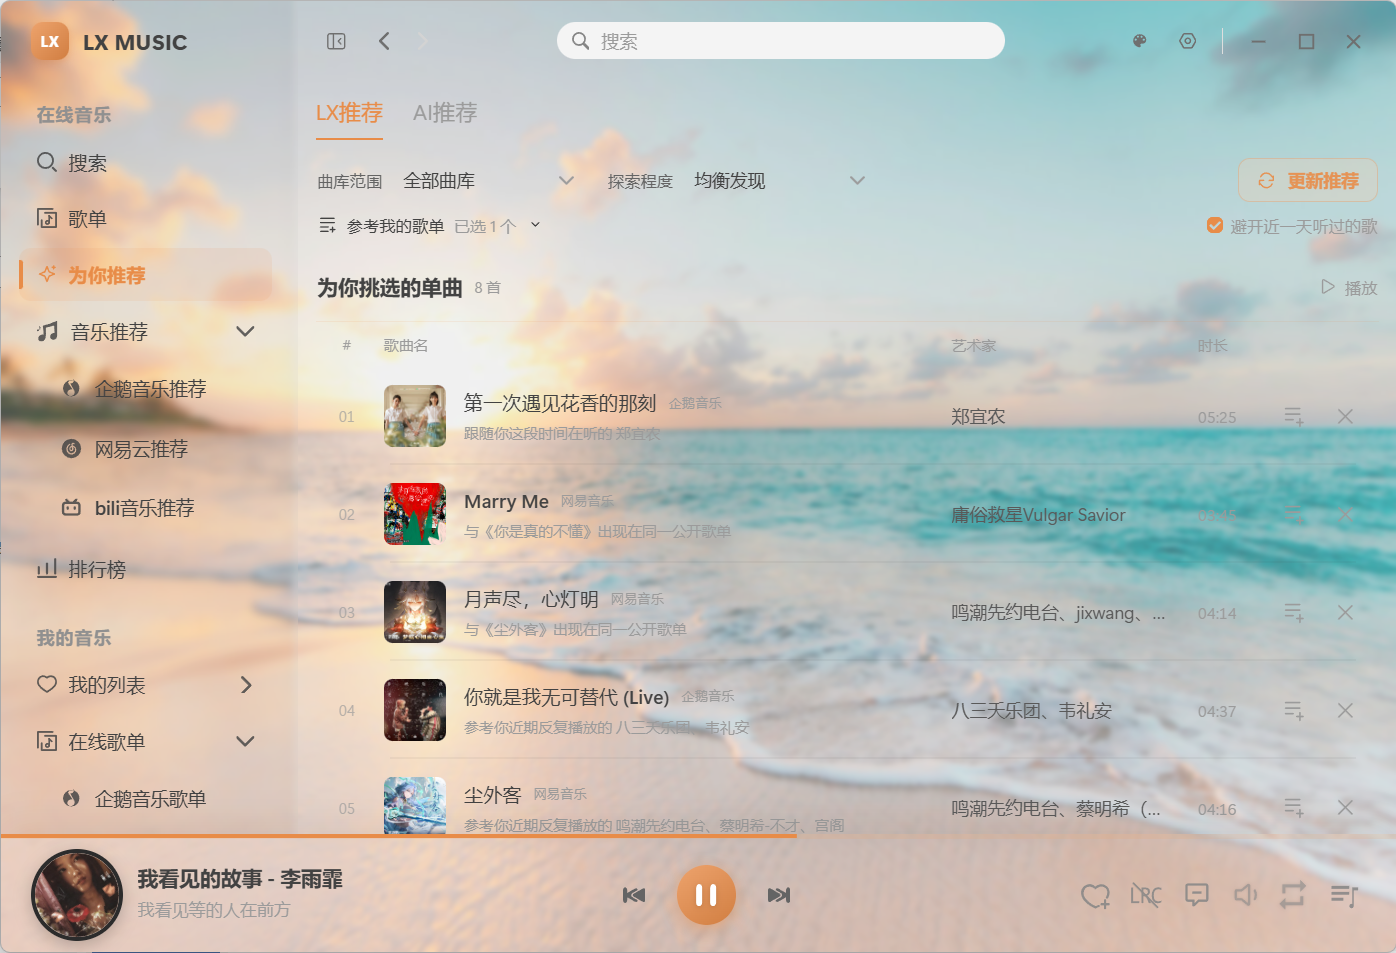
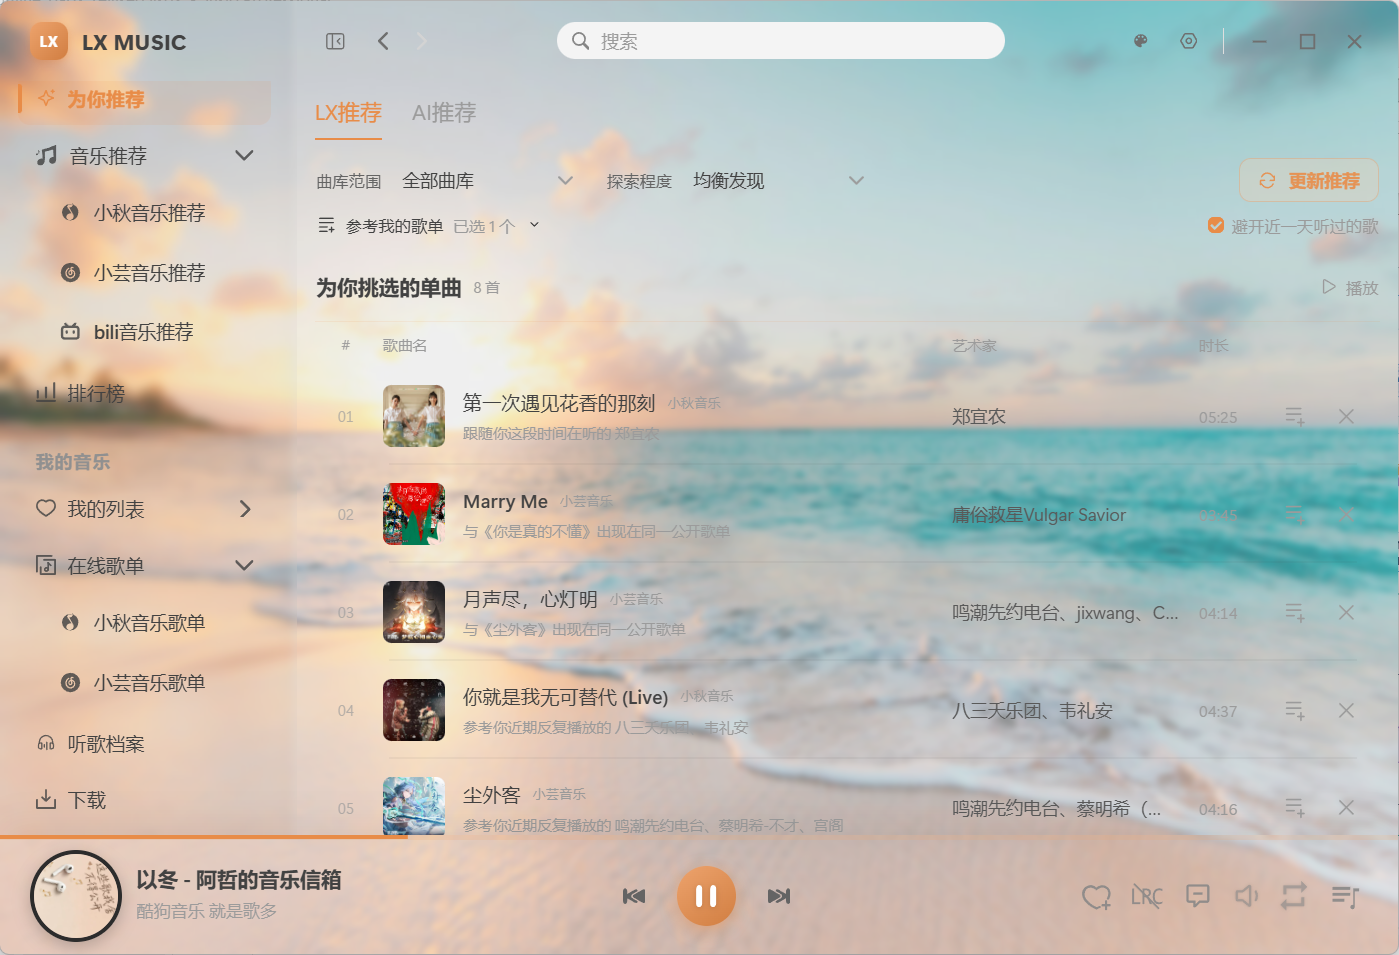
docs: refresh README with four current screenshots

diff --git a/README.md b/README.md
@@ -93,13 +93,17 @@
 
 以下为当前版本的实机截图。
 
-**企鹅音乐推荐 · 首页推荐**
+**平台推荐 · 首页推荐**
 
-<p><img width="100%" src="./doc/images/app.png" alt="企鹅音乐首页推荐：猜你喜欢、今日私享、推荐歌单和新歌推荐"></p>
+<p><img width="100%" src="./doc/images/app.png" alt="平台首页推荐：猜你喜欢、今日私享、推荐歌单和新歌推荐，侧栏显示平台别名"></p>
 
 **LX 推荐 · 完整单曲列表**
 
 <p><img width="100%" src="./doc/images/lx-recommendation.png" alt="LX 推荐界面：单列歌曲、参考歌单、探索程度和歌曲推荐理由"></p>
+
+**bili 音乐推荐 · 热门合集**
+
+<p><img width="100%" src="./doc/images/bilibili-recommendation.png" alt="B站音乐推荐：热门合集、分类筛选和打开歌单入口"></p>
 
 **听歌档案 · 收听概览**
 
